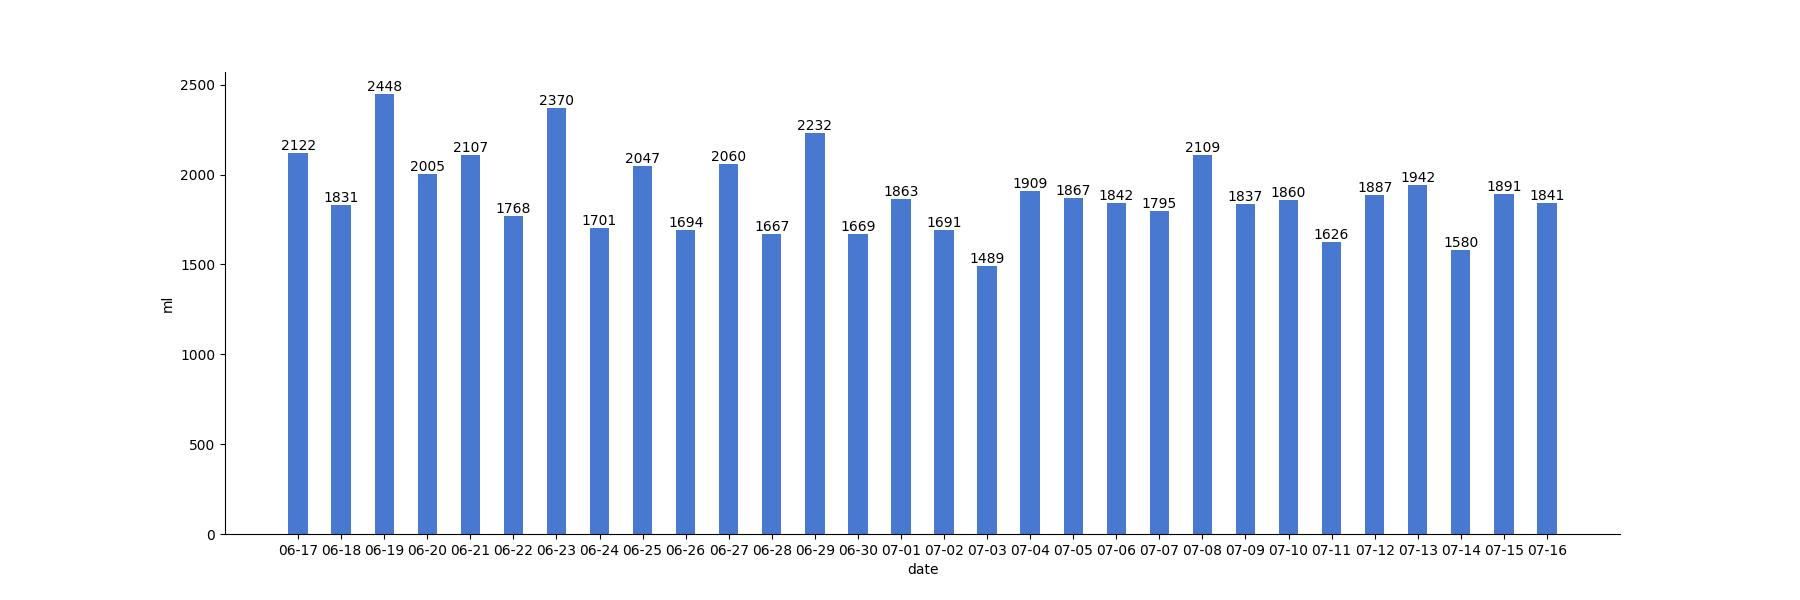
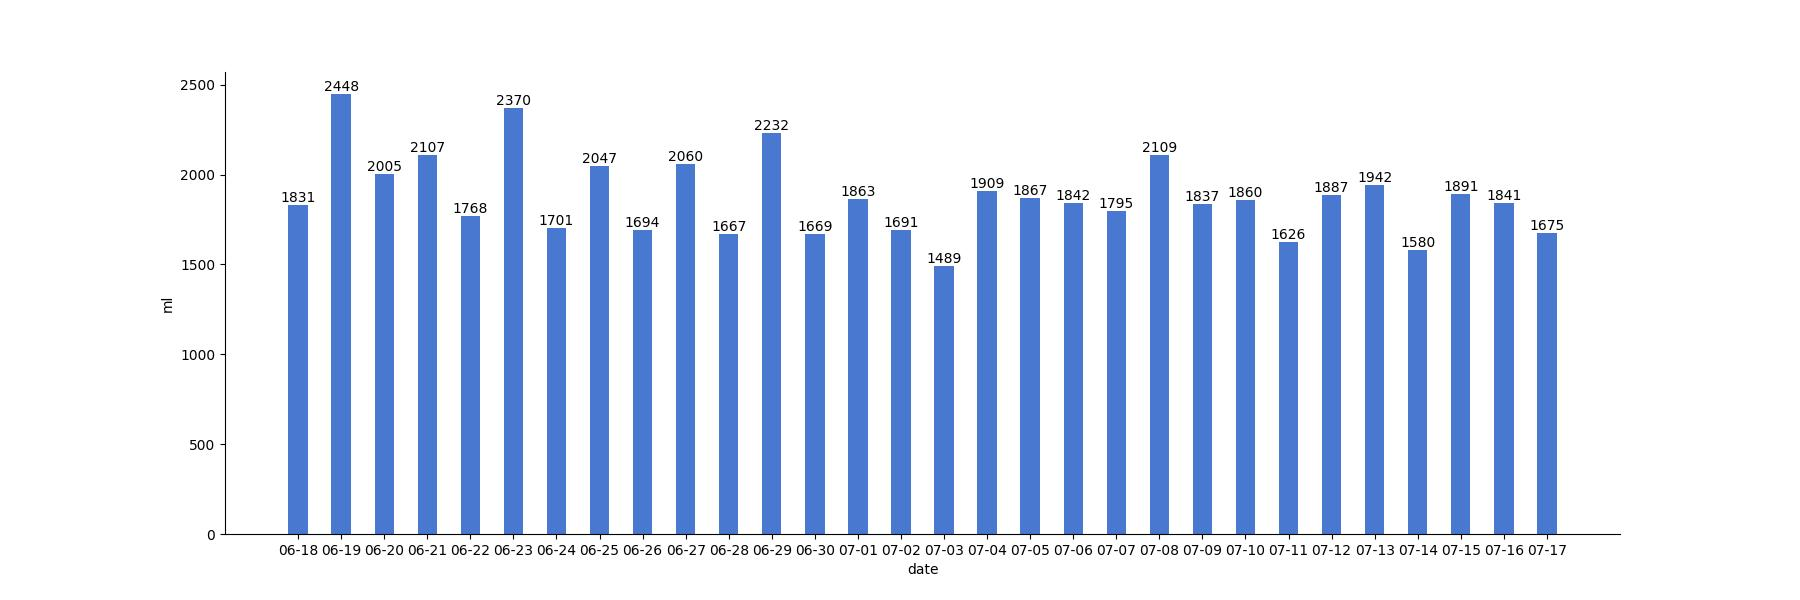
generated readme

diff --git a/README.md b/README.md
@@ -5,12 +5,12 @@
 
 | 今日总饮水量 | 每小时平均饮水量 |
 | :----: | :----: |
-| 1675 | 104 |
+| 46 | 46 |
 </div>
 
-| 日期 | 00:07:29 | 00:36:21 | 01:13:06 | 01:45:46 | 02:15:21 | 03:01:37 | 03:39:53 | 12:32:03 | 13:34:08 | 14:02:53 | 14:34:21 | 15:04:32 | 15:34:47 | 16:09:13 | 17:10:45 | 18:04:26 | 19:22:00 | 19:53:51 | 20:48:52 | 20:52:21 | 21:39:27 | 22:23:10 | 22:57:00 | 23:19:29 | 23:49:38 |
-| :----: | :----: | :----: | :----: | :----: | :----: | :----: | :----: | :----: | :----: | :----: | :----: | :----: | :----: | :----: | :----: | :----: | :----: | :----: | :----: | :----: | :----: | :----: | :----: | :----: | :----: |
-| 2022-07-17 | 63 | 36 | 77 | 89 | 51 | 21 | 26 | 200 | 68 | 61 | 33 | 72 | 55 | 96 | 97 | 28 | 58 | 57 | 29 | 84 | 52 | 89 | 62 | 73 | 98 |
+| 日期 | 00:19:20 |
+| :----: | :----: |
+| 2022-07-18 | 46 |
 
 # 近30日饮水数据
 
@@ -19,8 +19,12 @@
 
 | 总饮水量 | 日均饮水量 |
 | :----: | :----: |
-| 56750 | 1891 |
+| 56303 | 1876 |
 </div>
+
+| 日期 | all | 00:07:29 | 00:36:21 | 01:13:06 | 01:45:46 | 02:15:21 | 03:01:37 | 03:39:53 | 12:32:03 | 13:34:08 | 14:02:53 | 14:34:21 | 15:04:32 | 15:34:47 | 16:09:13 | 17:10:45 | 18:04:26 | 19:22:00 | 19:53:51 | 20:48:52 | 20:52:21 | 21:39:27 | 22:23:10 | 22:57:00 | 23:19:29 | 23:49:38 |
+| :----: | :----: | :----: | :----: | :----: | :----: | :----: | :----: | :----: | :----: | :----: | :----: | :----: | :----: | :----: | :----: | :----: | :----: | :----: | :----: | :----: | :----: | :----: | :----: | :----: | :----: | :----: |
+| 2022-07-17 | 1675 | 63 | 36 | 77 | 89 | 51 | 21 | 26 | 200 | 68 | 61 | 33 | 72 | 55 | 96 | 97 | 28 | 58 | 57 | 29 | 84 | 52 | 89 | 62 | 73 | 98 |
 
 | 日期 | all | 00:21:56 | 01:49:35 | 02:19:25 | 02:52:33 | 03:52:43 | 04:35:09 | 05:05:34 | 05:58:53 | 14:15:50 | 14:46:19 | 15:16:18 | 16:13:01 | 17:19:07 | 18:59:31 | 20:36:07 | 21:30:22 | 22:13:34 | 22:47:11 | 23:37:54 |
 | :----: | :----: | :----: | :----: | :----: | :----: | :----: | :----: | :----: | :----: | :----: | :----: | :----: | :----: | :----: | :----: | :----: | :----: | :----: | :----: | :----: |
@@ -141,8 +145,4 @@
 | 日期 | all | 00:02:32 | 00:50:35 | 01:13:14 | 08:00:50 | 08:49:56 | 10:00:01 | 10:18:33 | 10:29:49 | 11:31:10 | 12:23:18 | 13:06:02 | 13:57:32 | 14:50:01 | 15:13:47 | 16:46:31 | 17:34:54 | 18:29:06 | 19:00:19 | 19:30:25 | 20:33:29 | 21:03:48 | 21:41:52 | 22:11:23 | 22:41:43 |
 | :----: | :----: | :----: | :----: | :----: | :----: | :----: | :----: | :----: | :----: | :----: | :----: | :----: | :----: | :----: | :----: | :----: | :----: | :----: | :----: | :----: | :----: | :----: | :----: | :----: | :----: |
 | 2022-06-17 | 2122 | 69 | 50 | 58 | 103 | 123 | 106 | 91 | 67 | 80 | 200 | 70 | 64 | 97 | 54 | 49 | 24 | 400 | 67 | 72 | 33 | 30 | 81 | 49 | 85 |
-
-| 日期 | all | 01:22:33 | 07:52:05 | 08:04:01 | 08:45:23 | 09:23:04 | 09:39:23 | 10:11:43 | 10:44:40 | 11:17:32 | 12:14:10 | 12:59:12 | 13:29:27 | 14:02:22 | 14:33:35 | 15:10:26 | 16:10:52 | 17:15:31 | 18:04:15 | 19:16:23 | 19:34:00 | 20:06:12 | 20:40:35 | 20:55:52 | 21:51:07 | 22:12:40 | 22:32:25 | 23:41:11 | 23:57:58 |
-| :----: | :----: | :----: | :----: | :----: | :----: | :----: | :----: | :----: | :----: | :----: | :----: | :----: | :----: | :----: | :----: | :----: | :----: | :----: | :----: | :----: | :----: | :----: | :----: | :----: | :----: | :----: | :----: | :----: | :----: |
-| 2022-06-16 | 2068 | 44 | 82 | 30 | 72 | 27 | 89 | 30 | 34 | 57 | 200 | 112 | 42 | 73 | 137 | 43 | 118 | 200 | 62 | 28 | 82 | 58 | 66 | 28 | 48 | 56 | 88 | 77 | 85 |
 
